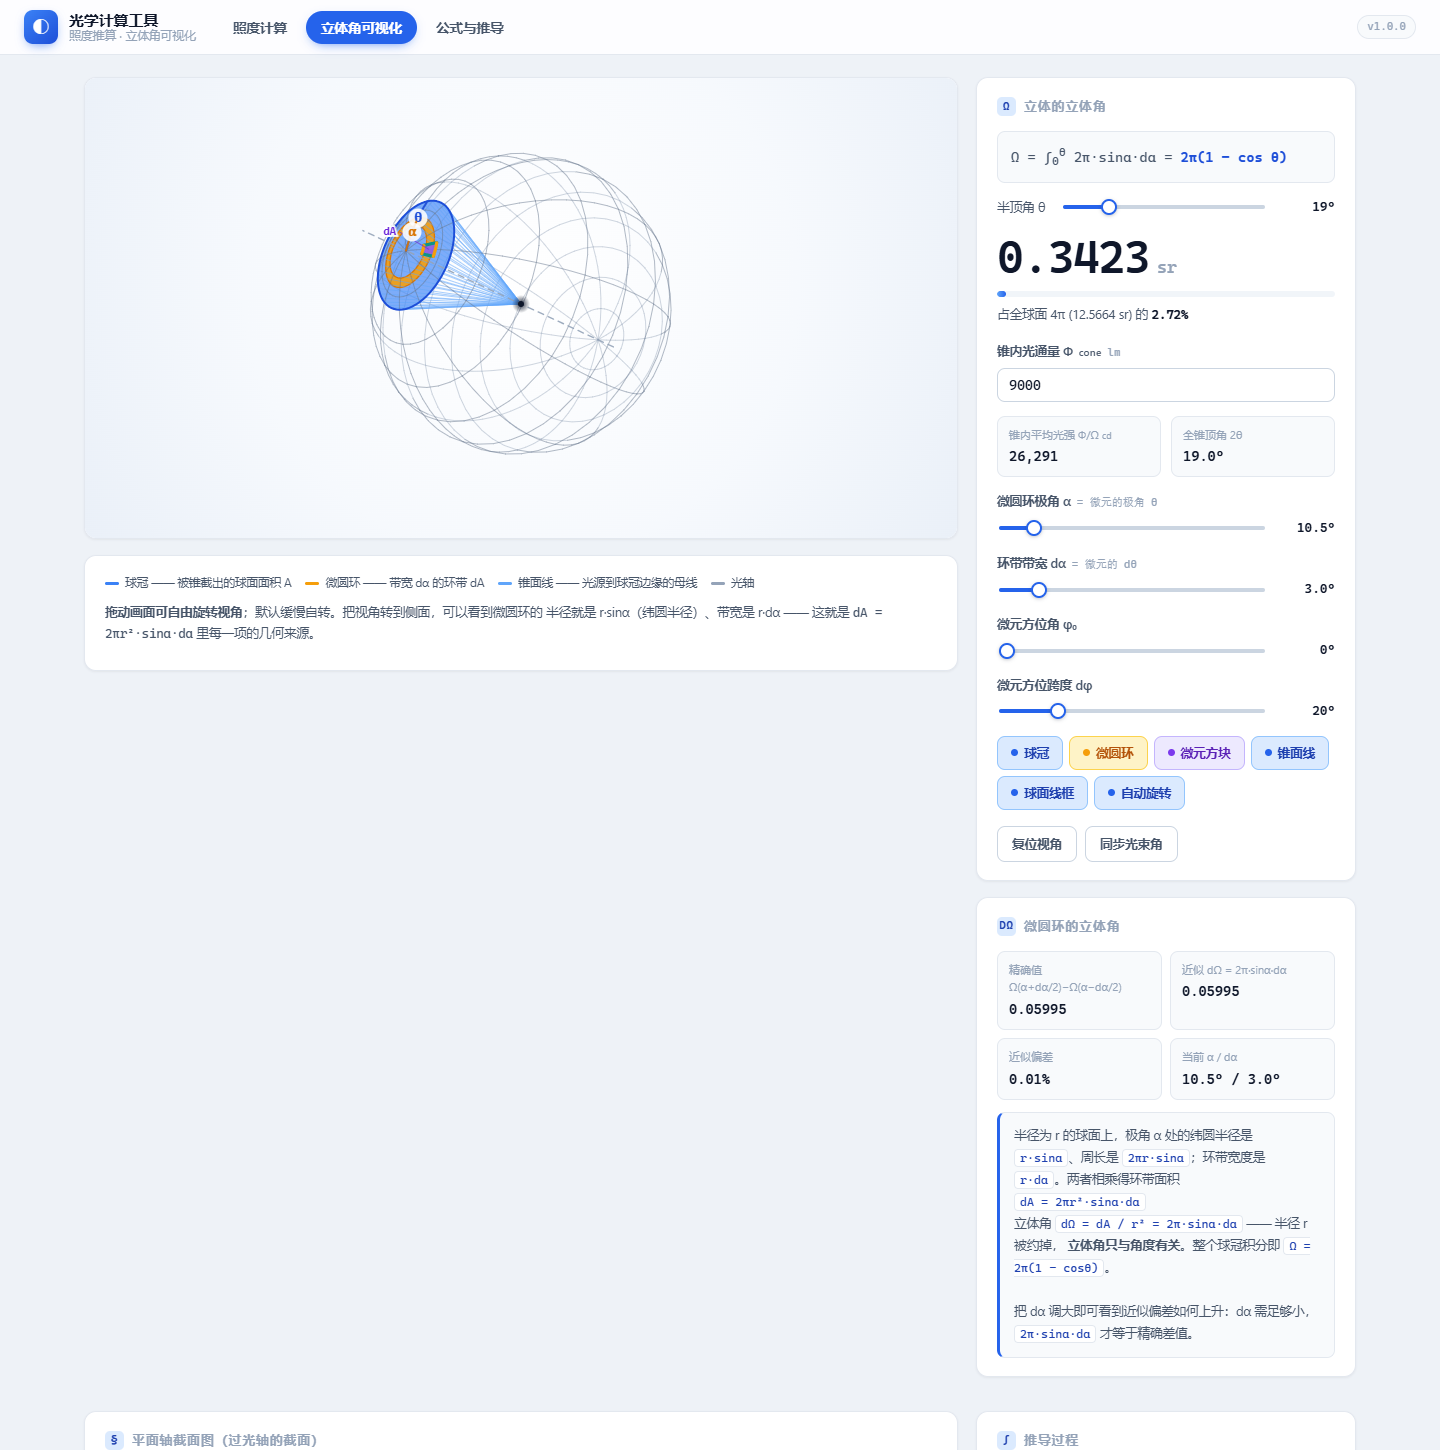
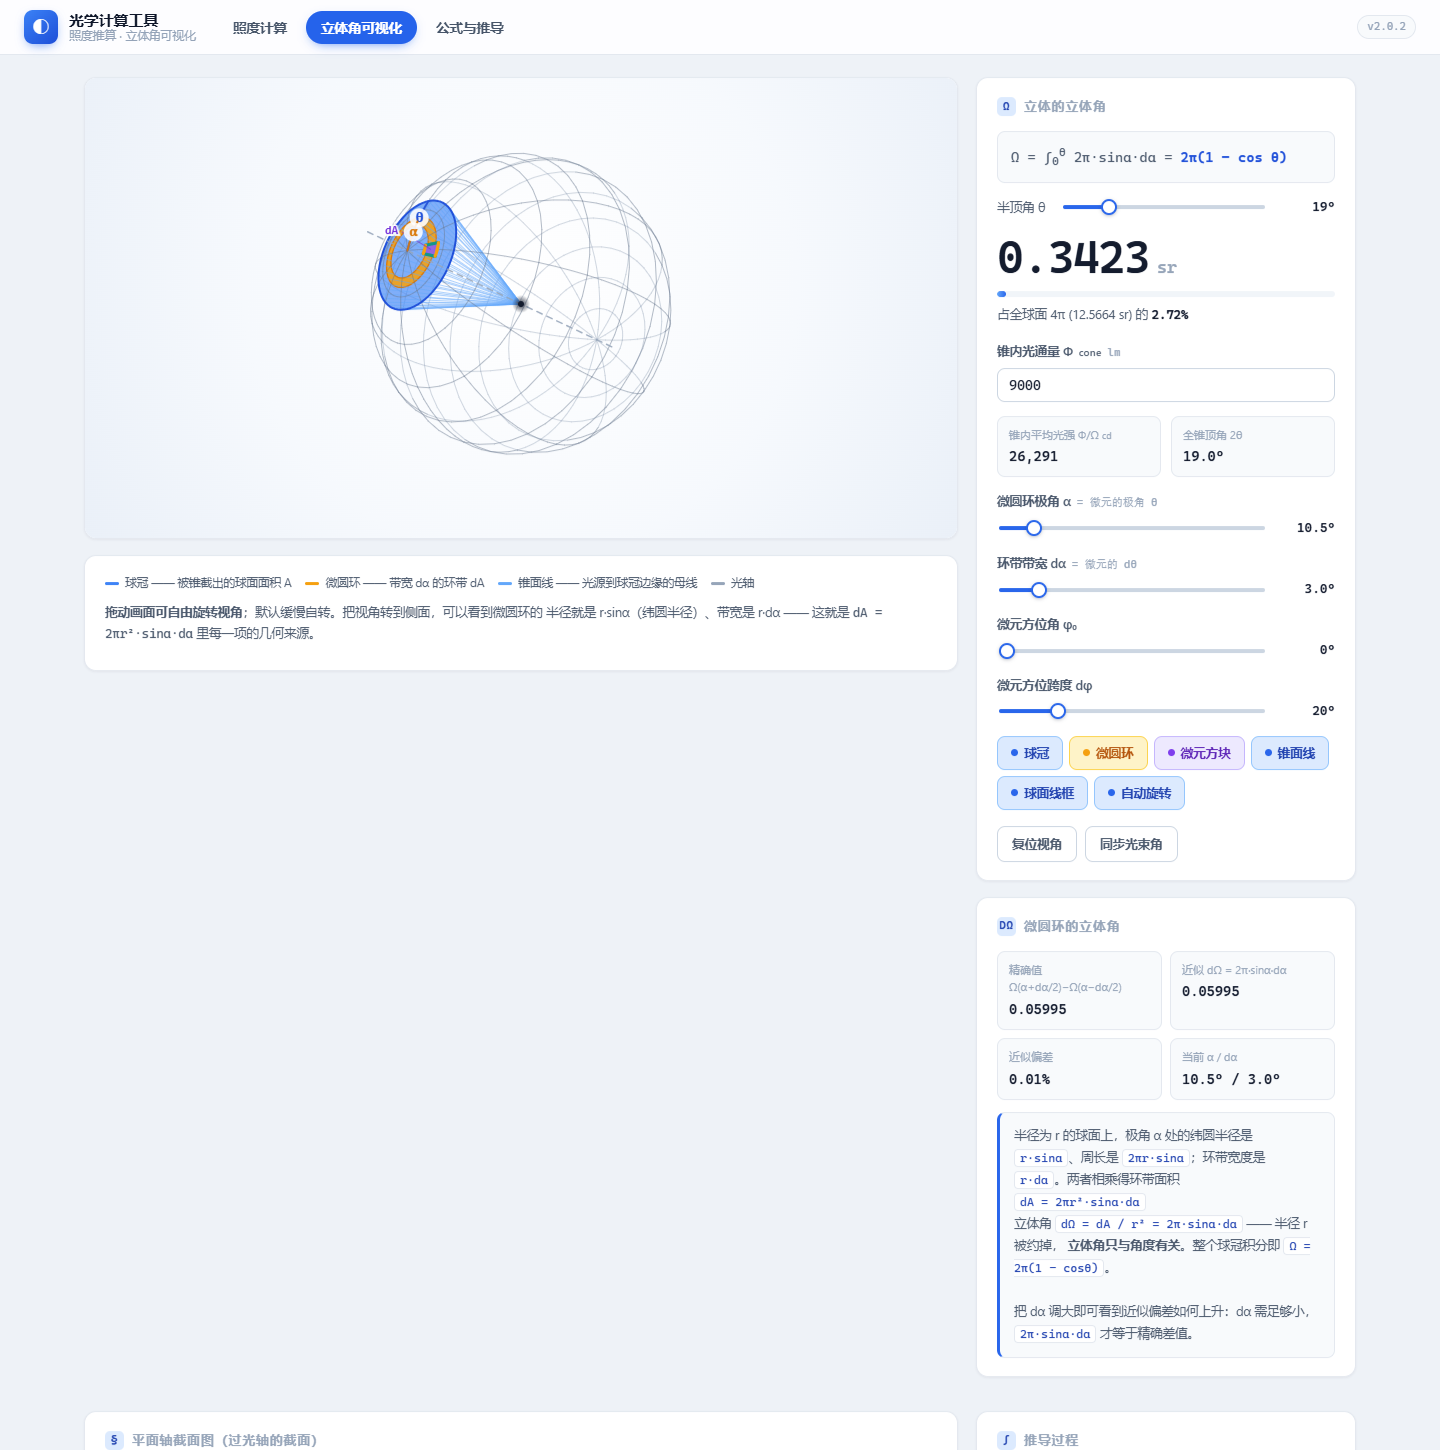
v2.0.2 建立版本号单一来源，页头与页脚不再硬编码版本
页头徽标与页脚各写了一份硬编码 v1.0.0，而实际已迭代到 v2.0.1 ——
同一份 HTML 内两处同时漂移，页面显示的版本与实际版本不符。

- 新增 js/version.js 作为机器可读的版本号单一来源
- index.html 两处显示点改走 .app-version class 钩子（用 id 只能注入一处，
  将来新增显示点必然再漏）
- 新增 CHANGELOG.md，补齐 v1.0.0 起的全部版本记录
- 新增 tests/version-check.js：断言 version.js 与 CHANGELOG 顶部版本一致、
  条目降序且每条有日期、index.html 内零硬编码版本号、注入链路完整
- 冒烟测试新增第 5 节，断言页头与页脚两处均显示当前版本、页面无旧版本残留
- 同步更新 4 张预览图（页头徽标有变）

测试：4 个套件全绿（版本一致性 14 项、内核 41 项、冒烟 37 项）

Changed region(s): [[0.25, 0.1241, 0.4688, 0.2793]]

diff --git a/tests/version-check.js b/tests/version-check.js
@@ -1,0 +1,90 @@
+#!/usr/bin/env node
+/* ============================================================
+ * tests/version-check.js —— 版本号一致性检查（纯 Node，无需浏览器）
+ *
+ * 为什么需要它：
+ *   本项目页脚曾硬编码 v1.0.0，而实际已迭代到 v2.0.1 —— 页面显示的版本
+ *   与实际版本各说各话。版本号写在多处必然漂移，只能靠断言钉住。
+ *
+ * 断言四件事：
+ *   1. js/version.js 定义合法版本号，且与本文件源头唯一
+ *   2. CHANGELOG.md 顶部条目与该版本一致，条目按降序、每条有日期
+ *   3. index.html 内不存在任何硬编码版本号（防止旧缺陷回归）
+ *   4. index.html 引入了 version.js，且 app.js 确实注入到页脚
+ *
+ * 用法：node tests/version-check.js
+ * ============================================================ */
+'use strict';
+
+const fs = require('fs');
+const path = require('path');
+
+const ROOT = path.resolve(__dirname, '..');
+const read = (p) => fs.readFileSync(path.join(ROOT, p), 'utf8');
+
+let pass = 0, fail = 0;
+function ok(name, got, want) {
+  const good = String(got) === String(want);
+  good ? pass++ : fail++;
+  console.log(`${good ? 'PASS' : 'FAIL'}  ${name.padEnd(46)} got=${JSON.stringify(got)} want=${JSON.stringify(want)}`);
+}
+function okTrue(name, cond, extra) {
+  cond ? pass++ : fail++;
+  console.log(`${cond ? 'PASS' : 'FAIL'}  ${name.padEnd(46)} ${extra === undefined ? '' : extra}`);
+}
+
+const SEMVER = /^v\d+\.\d+\.\d+$/;
+function semverGt(a, b) {            // a > b ?
+  for (let i = 0; i < 3; i++) if (a[i] !== b[i]) return a[i] > b[i];
+  return false;
+}
+
+/* ---------- 1. js/version.js：单一来源 ---------- */
+console.log('=== 1. 版本号单一来源 js/version.js ===');
+const vjs = read('js/version.js');
+const mVer = vjs.match(/APP_VERSION\s*=\s*['"]([^'"]+)['"]/);
+okTrue('已定义 APP_VERSION', !!mVer, mVer ? mVer[1] : '未找到');
+const ver = mVer ? mVer[1] : '';
+okTrue(`版本号格式合法（${ver}）`, SEMVER.test(ver), SEMVER.test(ver) ? '' : '应为 vX.Y.Z');
+
+/* ---------- 2. CHANGELOG.md：与单一来源对齐 ---------- */
+console.log('\n=== 2. CHANGELOG.md 与单一来源一致 ===');
+const log = read('CHANGELOG.md');
+const heads = [...log.matchAll(/^##[ \t]*\[(v[0-9]+\.[0-9]+\.[0-9]+)\][ \t]*-[ \t]*(\d{4}-\d{2}-\d{2})[ \t]*$/gm)];
+okTrue('CHANGELOG 含版本条目', heads.length > 0, `共 ${heads.length} 条`);
+const latest = heads.length ? heads[0][1] : '';
+ok('CHANGELOG 顶部版本 == version.js', latest, ver);
+
+const nums = heads.map((h) => h[1].slice(1).split('.').map(Number));
+const desc = nums.every((v, i) => i === 0 || semverGt(nums[i - 1], v));
+okTrue('条目按版本号降序排列', desc, desc ? '' : '最新版本必须在最上面');
+okTrue('每条条目均有合法日期', heads.every((h) => /^\d{4}-\d{2}-\d{2}$/.test(h[2])));
+okTrue('版本号无重复', new Set(nums.map((n) => n.join('.'))).size === nums.length);
+
+/* ---------- 3. index.html：不得硬编码版本号 ---------- */
+console.log('\n=== 3. index.html 不得硬编码版本号 ===');
+const html = read('index.html');
+const hard = html.match(/\bv\d+\.\d+\.\d+\b/g) || [];
+ok('index.html 内硬编码版本号数量', hard.length, 0);
+if (hard.length) console.log('       出现处：' + JSON.stringify(hard));
+// 页面上有多个版本显示点（页头徽标 + 页脚），全部走 .app-version 钩子
+const hooks = (html.match(/class="[^"]*\bapp-version\b[^"]*"/g) || []).length;
+okTrue('版本显示点（.app-version 钩子）不少于 2 处', hooks >= 2, `共 ${hooks} 处`);
+okTrue('index.html 引入 js/version.js',
+  /<script src="js\/version\.js"><\/script>/.test(html));
+// version.js 必须在 app.js 之前加载，否则 boot() 取不到值
+const iVer = html.indexOf('js/version.js');
+const iApp = html.indexOf('js/app.js');
+okTrue('version.js 在 app.js 之前加载', iVer >= 0 && iApp >= 0 && iVer < iApp,
+  `version.js@${iVer} < app.js@${iApp}`);
+
+/* ---------- 4. app.js：确实注入到所有显示点 ---------- */
+console.log('\n=== 4. 版本号注入链路 ===');
+const app = read('js/app.js');
+okTrue('app.js 遍历 .app-version 注入', /querySelectorAll\(\s*['"]\.app-version['"]\s*\)/.test(app));
+okTrue('app.js 读取 window.APP_VERSION', /window\.APP_VERSION/.test(app));
+// 用 id 只能注入一处，是本项目踩过的坑：页头徽标与页脚各写一份硬编码
+okTrue('未使用只能注入单点的 id 方案', !/getElementById\(\s*['"]app-version['"]\s*\)/.test(app));
+
+console.log(`\n版本一致性：通过 ${pass} 项，失败 ${fail} 项`);
+process.exit(fail === 0 ? 0 : 1);

diff --git a/tests/smoke-render.js b/tests/smoke-render.js
@@ -64,6 +64,14 @@ function classOf(html, id) {
   const m = t.match(/class="([^"]*)"/);
   return m ? m[1] : '';
 }
+/* 按 class 取所有匹配元素的可见文本（用于 class 钩子型元素，如 .app-version） */
+function textsByClass(html, cls) {
+  const re = new RegExp('<[a-zA-Z]+[^>]*class="[^"]*\\b' + cls + '\\b[^"]*"[^>]*>([\\s\\S]*?)<\\/', 'g');
+  const out = [];
+  let m;
+  while ((m = re.exec(html)) !== null) out.push(m[1].replace(/<[^>]*>/g, '').trim());
+  return out;
+}
 
 let fail = 0, pass = 0;
 function ok(name, got, want) {
@@ -152,6 +160,18 @@ okTrue('三维画布已渲染', /id="sa-canvas"/.test(dom));
 okTrue('曲线说明已填充', (textOf(dom, 'curve-caption') || '').indexOf('R½') >= 0,
   (textOf(dom, 'curve-caption') || '').slice(0, 40));
 okTrue('末行高亮正确（最远点 = E_min）', /class="hl"[\s\S]{0,400}42\.3%/.test(dom));
+
+console.log('\n=== 5. 版本号注入（渲染层验证是否真的生效）===');
+const verSrc = fs.readFileSync(path.join(ROOT, 'js', 'version.js'), 'utf8');
+const expectedVer = (verSrc.match(/APP_VERSION\s*=\s*['"]([^'"]+)['"]/) || [])[1];
+okTrue('已从 js/version.js 读到版本号', !!expectedVer, expectedVer);
+const vers = textsByClass(dom, 'app-version');
+ok('版本显示点数量（页头 + 页脚）', vers.length, 2);
+okTrue('所有显示点均已注入当前版本',
+  vers.length > 0 && vers.every(function (v) { return v === expectedVer; }),
+  JSON.stringify(vers));
+okTrue('页面未残留硬编码旧版本',
+  !/\bv1\.0\.0\b/.test(dom), '不应再出现 v1.0.0');
 
 console.log(`\n浏览器冒烟：通过 ${pass} 项，失败 ${fail} 项`);
 process.exit(fail === 0 ? 0 : 1);

diff --git a/index.html b/index.html
@@ -21,7 +21,7 @@
     <button class="tab" data-tab="solid">立体角可视化</button>
     <button class="tab" data-tab="theory">公式与推导</button>
   </nav>
-  <span class="ver">v1.0.0</span>
+  <span class="ver app-version">v—</span>
 </header>
 
 <div class="wrap">
@@ -749,7 +749,7 @@
 
 <div class="footer">
   <div>
-    光学计算工具 v1.0.0 —— 全部公式为标准光度学定义（Ω = A/r²、I = dΦ/dΩ、
+    光学计算工具 <b class="app-version">v—</b> —— 全部公式为标准光度学定义（Ω = A/r²、I = dΦ/dΩ、
     E = I·cosγ/d²），cosⁿ 配光为解析近似，非实测配光文件。
   </div>
   <div>
@@ -762,6 +762,7 @@
   </div>
 </div>
 
+<script src="js/version.js"></script>
 <script src="js/optics.js"></script>
 <script src="js/charts.js"></script>
 <script src="js/solidangle.js"></script>

diff --git a/js/version.js b/js/version.js
@@ -1,0 +1,12 @@
+/* ============================================================
+ * version.js —— 版本号单一来源（机器可读）
+ *
+ * 改版本号只需动这一处，并在 CHANGELOG.md 顶部追加同版本条目。
+ * tests/version-check.js 会断言两处一致，防止漂移。
+ * 页脚显示（index.html 中 id="app-version"）由 app.js 注入。
+ *
+ * 注意：index.html 内**不得**再出现硬编码版本号 —— version-check.js
+ * 会断言这一点。此前页脚写死 v1.0.0 而实际已迭代到 v2.0.1，页面显示的
+ * 版本与实际版本各说各话，这是真实发生过的缺陷。
+ * ============================================================ */
+window.APP_VERSION = 'v2.0.2';

diff --git a/js/app.js b/js/app.js
@@ -506,6 +506,13 @@
    * 启动
    * ========================================================= */
   function boot() {
+    // 版本号由 js/version.js 单一来源注入。
+    // 用 class 钩子而非 id：页面上有多个显示点（页头徽标 + 页脚），
+    // 写死 id 只能注入一处，将来再加一处又会漏。
+    var verTxt = window.APP_VERSION || 'v—';
+    document.querySelectorAll('.app-version').forEach(function (el) {
+      el.textContent = verTxt;
+    });
     bindTabs();
     bindCalc();
     initSolid();

diff --git a/tests/run-all.js b/tests/run-all.js
@@ -14,6 +14,7 @@ const path = require('path');
 const { spawnSync } = require('child_process');
 
 const SUITES = [
+  { name: '版本一致性 · 单一来源与 CHANGELOG', file: 'version-check.js' },
   { name: '计算内核 · 光度学数值断言', file: 'verify.js' },
   { name: '参考算例 · 外部文件复核', file: 'verify-user-file.js' },
   { name: '浏览器冒烟 · 真实渲染', file: 'smoke-render.js' }

diff --git a/CHANGELOG.md b/CHANGELOG.md
@@ -1,0 +1,86 @@
+# 更新日志
+
+本项目遵循[语义化版本](https://semver.org/lang/zh-CN/)。每个版本节点在 git 中打有
+annotated tag，并在本文件记录变更。
+
+**版本号单一来源**：`js/version.js`。改版本号时须同时在本文件顶部追加条目，
+`tests/version-check.js` 会断言两者一致。页脚显示的版本号同样取自该文件。
+
+对应站点：<https://wisdomhuang2020.github.io/optical-calculator/>
+
+## [v2.0.2] - 2026-09-17
+
+### 新增
+- 版本号单一来源 `js/version.js`，页头徽标与页脚均实时显示当前版本
+- 本文件 `CHANGELOG.md`，补齐 v1.0.0 起的全部版本记录
+- `tests/version-check.js`：断言版本号在 `js/version.js`、本文件、页面三处一致，
+  并断言 `index.html` 内不存在硬编码版本号
+
+### 修复
+- **页头徽标与页脚各写了一份硬编码 `v1.0.0`**，而实际已迭代至 v2.0.1，
+  同一份 HTML 内两处同时漂移，页面显示的版本与实际版本不符。改为统一由
+  `js/version.js` 注入，并用 class 钩子覆盖全部显示点 —— 若用 id 只能注入一处，
+  将来新增显示点必然再漏。
+
+## [v2.0.1] - 2026-09-17
+
+### 变更
+- 同步更新受影响的预览图（`preview/01-照度计算.png`、`preview/04-公式与推导.png`），
+  使其与线上一致。仅预览资源，无代码变化。
+
+## [v2.0.0] - 2026-09-17
+
+### ⚠ 破坏性变更
+- **移除光束角的「半光强全角 2θ½ / 半角 γ½」口径开关**，输入字段统一为半光强
+  半角 θ½。默认值由 38 改为 19，合法区间由 1~179 改为 0.5~89.5。
+  同一数值在新版语义不同：照旧口径填写的参数会**静默出错**。例如把数据手册上
+  的全角 38° 当半角填入，配光指数 n 由 12.37 降至 2.91、E_max 由 2 128 lx
+  降至 622 lx（**低估 71%**），且页面不会有任何异常提示。
+
+### 新增
+- 口径防错（去掉开关会引入误填风险，而 38° 落在 θ½ 的合法区间内，校验拦不住）：
+  输入框下方实时显示「等价全角 2θ½」，并常驻提示「数据手册若标的是全角，
+  请先除以 2 再填入」。仅提示，不恢复开关。
+- 记号统一：γ = 光线与光轴夹角，θ½ = 半光强半角
+- 浏览器冒烟测试由 28 项增至 33 项，新增断言钉住防错行为
+
+## [v1.1.0] - 2026-09-17
+
+### 新增
+- `tests/smoke-render.js`：无头 Chrome 渲染后导出 DOM，断言关键计算值与图表/表格
+  是否真的渲染出来（28 项）。此类缺陷语法检查与单元测试均无法捕获，本项目已实际
+  踩过两次：`addColorStop` 浮点越界致数据表整段消失、Canvas 初始化在隐藏视图内
+  尺寸为 0 停在 300×150
+- `tests/run-all.js`：统一测试入口，CI 与本地共用，避免两边跑的套件不一致
+- `.github/workflows/test.yml`：可复用工作流（`workflow_call`），测试定义单一来源
+- `.github/workflows/ci.yml`：push 非 main + PR + 手动，补上原本完全缺失的 PR 检查
+
+### 变更
+- `pages.yml` 改为 `test → build → deploy`，测试不通过则部署中止，坏版本无法上线
+- 固定 Node 22；两处工作流均加 `concurrency`
+
+## [v1.0.1] - 2026-09-17
+
+### 修复
+- `tools/push-via-api.js` 头注释原称「github.com 不可达」，实测只有 HTTPS(443)
+  被墙、SSH(22) 一直可用。该结论会误导使用者绕过更简单的 SSH 方案，已更正为
+  「首选 SSH、API 仅作降级通道」。纯注释修正，无功能变化。
+
+## [v1.0.0] - 2026-09-17
+
+### 新增
+- **照度计算**：`cosⁿ` 余弦幂配光，由总光通量 Φ 与半光强角反求峰值光强 I₀，
+  输出 E_max / E_min / E_avg、均匀度 U 与光通量利用率；附径向剖面曲线、
+  俯视伪彩分布图与径向剖面数据表
+- **立体角可视化**：可旋转三维球面（球冠 / 微圆环 / 微元方块 / 锥面线 / 光轴
+  五个元素独立开关）；平面轴截面图（含纬圈投影弦）；环带一重积分与球面微元
+  二重积分两条独立推导路径，互为交叉验证
+- **公式与推导**页
+- `tests/verify.js`：计算内核 41 项数值断言
+- GitHub Pages 部署
+
+### 已知限制
+- 点光源近似，要求距离 ≥ 5× 发光面尺寸
+- 单灯、无相互反射；不支持灯具倾斜（下照角 ≠ 90°）与竖直墙面
+- 不解析 IES/LDT 配光文件；不含维护系数
+- 不做法规判定，正式照明设计需 DIALux / AGi32 + 实测配光复核
